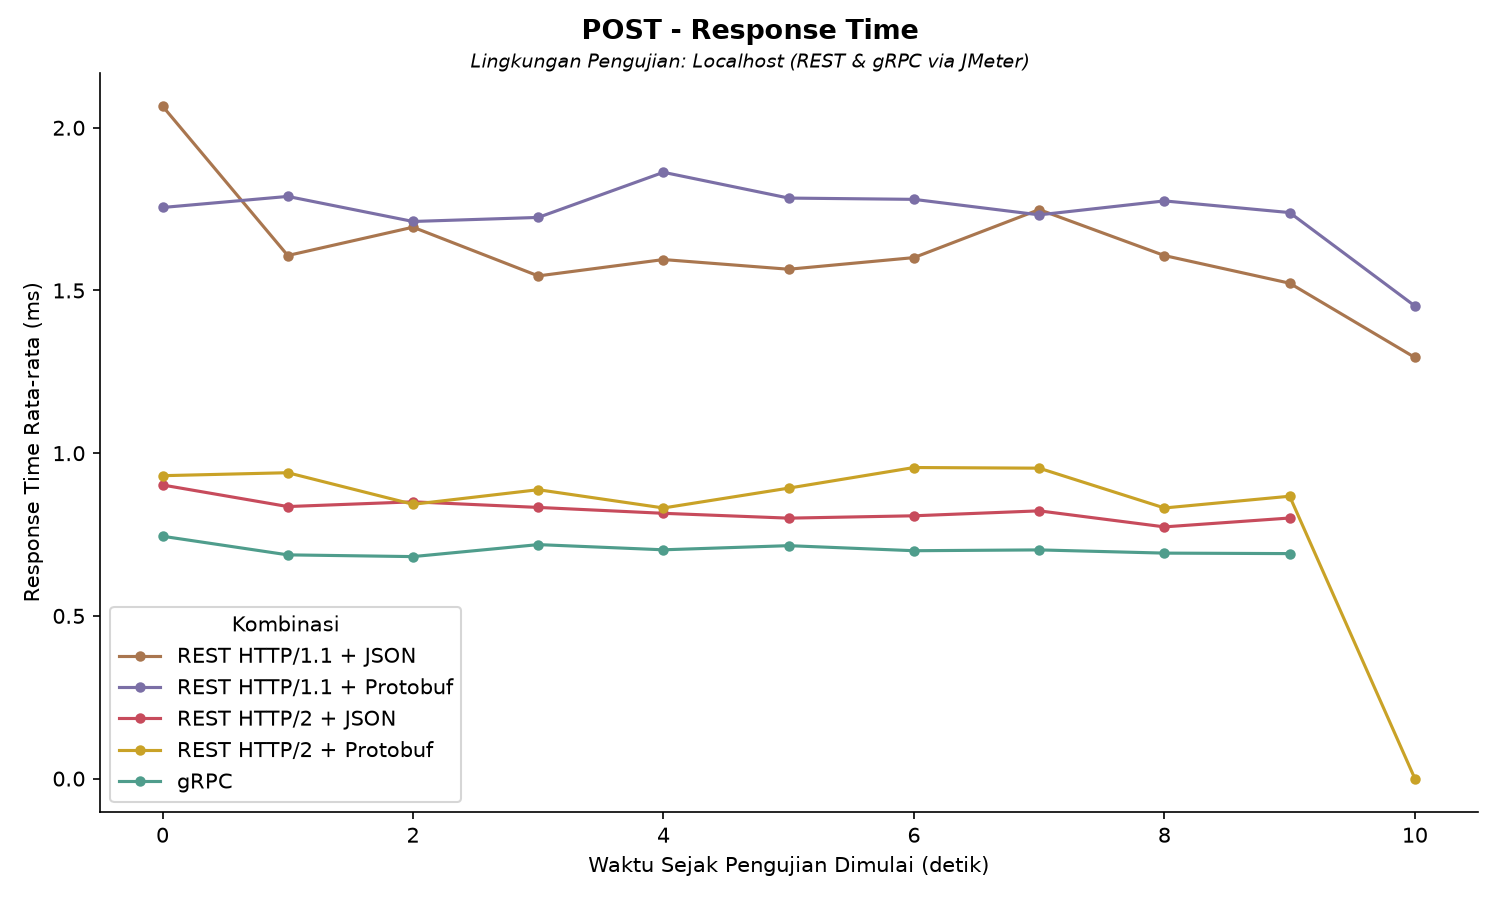
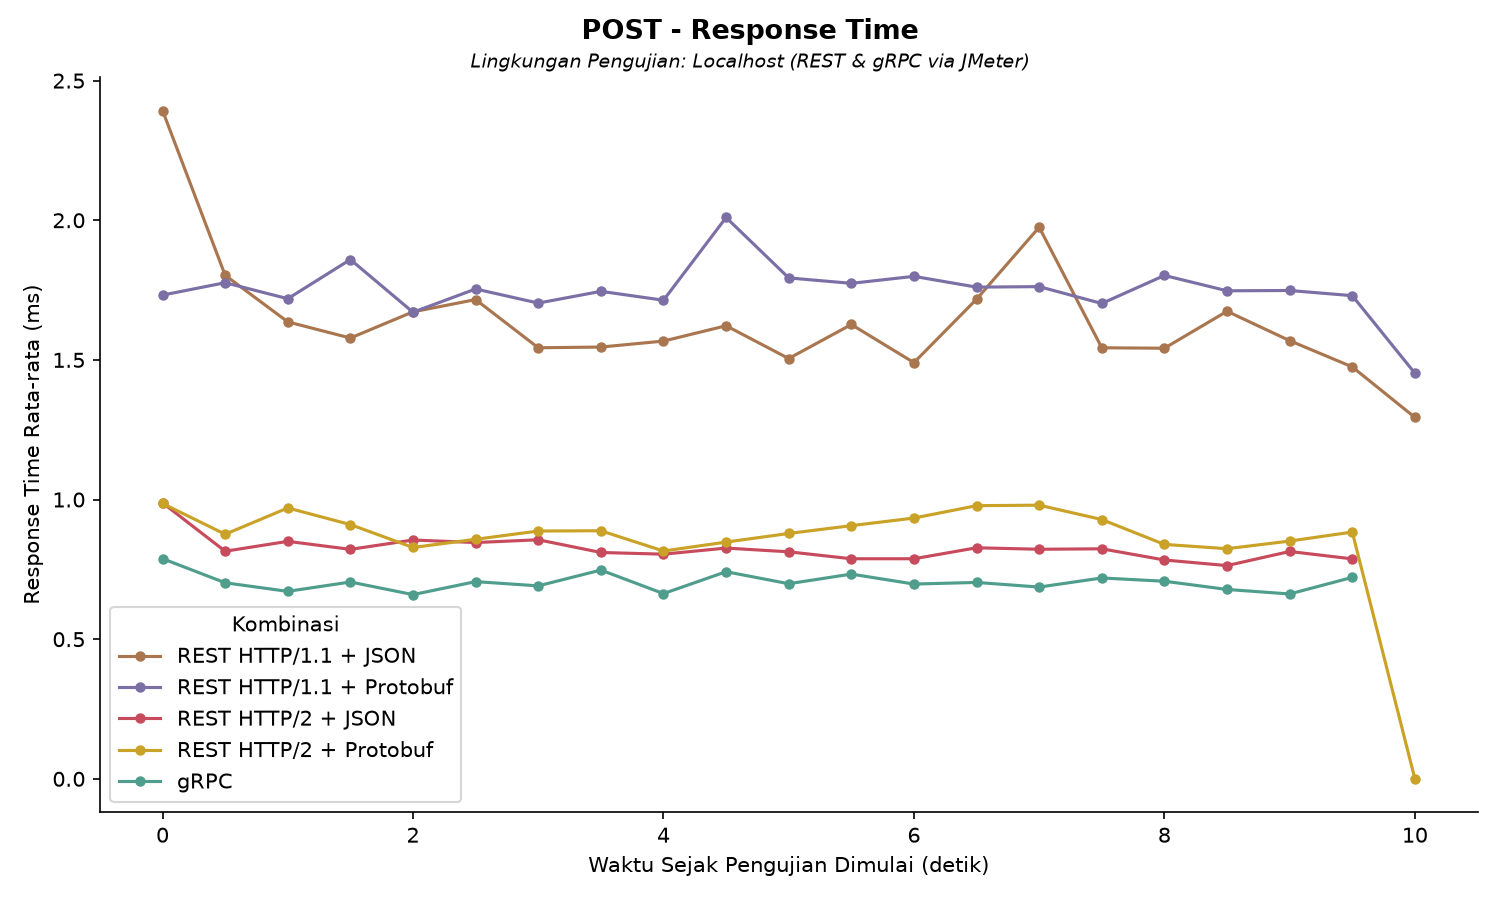
fix: align overlay bucket size and marker style across all 3 scripts
- Widen response-time-over-time bucketing from 1000ms to 500ms in
  localhost_visualize.py, vps_visualize.py, and
  vps_visualize-jmeter-ghz-combined.py, fixing overlay lines that
  collapsed into a single invisible point for very fast combinations
  (all requests finishing under 1 second)
- Revert vps_visualize-jmeter-ghz-combined.py's overlay markers back
  to plain marker="o", markersize=4, matching the other two scripts
  (previous per-combination marker shapes were rejected for breaking
  visual consistency across scenarios)

diff --git a/testing/vps-rest-jmeter-grpc-ghz/analysis/vps_visualize-jmeter-ghz-combined.py b/testing/vps-rest-jmeter-grpc-ghz/analysis/vps_visualize-jmeter-ghz-combined.py
@@ -166,7 +166,7 @@ def load_ghz_details(path: Path) -> pd.DataFrame:
 def compute_ghz_summary(df: pd.DataFrame) -> dict:
     """Compute mean/p99/min/max/throughput/error_rate for a single ghz report's DataFrame."""
     elapsed = df["elapsed"]
-    duration_s = max(df["timeStamp"].max() - df["timeStamp"].min(), 1) / 1000
+    duration_s = max((df["timeStamp"] + elapsed.clip(lower=0)).max() - df["timeStamp"].min(), 1) / 1000
     return {
         "mean": elapsed.mean(), "p99": elapsed.quantile(0.99),
         "min": elapsed.min(), "max": elapsed.max(),
@@ -242,13 +242,15 @@ def plot_combined_response_time_overlay(rest_df: pd.DataFrame, ghz_dfs: dict, si
         if subset.empty:
             continue
         start = subset["timeStamp"].min()
-        subset["bucket_s"] = (subset["timeStamp"] - start) // 1000
+        # subset["bucket_s"] = (subset["timeStamp"] - start) // 1000
+        subset["bucket_s"] = (subset["timeStamp"] - start) // 500 / 2
         bucketed = subset.groupby("bucket_s")["elapsed"].mean()
         ax.plot(bucketed.index, bucketed.values, label=combo, color=COMBO_COLORS[combo], linewidth=1.5, marker="o", markersize=4)
 
     ghz_df = ghz_dfs[size].copy()
     start = ghz_df["timeStamp"].min()
-    ghz_df["bucket_s"] = (ghz_df["timeStamp"] - start) // 1000
+    # ghz_df["bucket_s"] = (ghz_df["timeStamp"] - start) // 1000
+    ghz_df["bucket_s"] = (ghz_df["timeStamp"] - start) // 500 / 2
     bucketed = ghz_df.groupby("bucket_s")["elapsed"].mean()
     ax.plot(bucketed.index, bucketed.values, label="gRPC", color=COMBO_COLORS["gRPC"], linewidth=1.5, marker="o", markersize=4)
 
@@ -324,13 +326,15 @@ def plot_combined_post_response_time_overlay(rest_df: pd.DataFrame, ghz_post_df:
         if subset.empty:
             continue
         start = subset["timeStamp"].min()
-        subset["bucket_s"] = (subset["timeStamp"] - start) // 1000
+        # subset["bucket_s"] = (subset["timeStamp"] - start) // 1000
+        subset["bucket_s"] = (subset["timeStamp"] - start) // 500 / 2
         bucketed = subset.groupby("bucket_s")["elapsed"].mean()
         ax.plot(bucketed.index, bucketed.values, label=combo, color=COMBO_COLORS[combo], linewidth=1.5, marker="o", markersize=4)
 
     ghz_post_df = ghz_post_df.copy()
     start = ghz_post_df["timeStamp"].min()
-    ghz_post_df["bucket_s"] = (ghz_post_df["timeStamp"] - start) // 1000
+    # ghz_post_df["bucket_s"] = (ghz_post_df["timeStamp"] - start) // 1000
+    ghz_post_df["bucket_s"] = (ghz_post_df["timeStamp"] - start) // 500 / 2
     bucketed = ghz_post_df.groupby("bucket_s")["elapsed"].mean()
     ax.plot(bucketed.index, bucketed.values, label="gRPC", color=COMBO_COLORS["gRPC"], linewidth=1.5, marker="o", markersize=4)
 

diff --git a/testing/localhost-rest-jmeter-grpc-jmeter/analysis/localhost_visualize.py b/testing/localhost-rest-jmeter-grpc-jmeter/analysis/localhost_visualize.py
@@ -237,7 +237,7 @@ def plot_response_time_overlay(df: pd.DataFrame, size: str):
             continue
 
         start = subset["timeStamp"].min()
-        subset["bucket_s"] = (subset["timeStamp"] - start) // 1000
+        subset["bucket_s"] = (subset["timeStamp"] - start) // 500 / 2
         bucketed = subset.groupby("bucket_s")["elapsed"].mean()
 
         ax.plot(bucketed.index, bucketed.values, label=combo, color=COMBO_COLORS[combo],
@@ -344,7 +344,7 @@ def plot_post_response_time_overlay(df: pd.DataFrame):
             continue
 
         start = subset["timeStamp"].min()
-        subset["bucket_s"] = (subset["timeStamp"] - start) // 1000
+        subset["bucket_s"] = (subset["timeStamp"] - start) // 500 / 2
         bucketed = subset.groupby("bucket_s")["elapsed"].mean()
 
         ax.plot(bucketed.index, bucketed.values, label=combo, color=COMBO_COLORS[combo],

diff --git a/testing/vps-rest-jmeter-grpc-jmeter/analysis/vps_visualize.py b/testing/vps-rest-jmeter-grpc-jmeter/analysis/vps_visualize.py
@@ -234,7 +234,7 @@ def plot_response_time_overlay(df: pd.DataFrame, size: str):
             continue
 
         start = subset["timeStamp"].min()
-        subset["bucket_s"] = (subset["timeStamp"] - start) // 1000
+        subset["bucket_s"] = (subset["timeStamp"] - start) // 500 / 2
         bucketed = subset.groupby("bucket_s")["elapsed"].mean()
 
         ax.plot(bucketed.index, bucketed.values, label=combo, color=COMBO_COLORS[combo],
@@ -345,7 +345,7 @@ def plot_post_response_time_overlay(df: pd.DataFrame):
             continue
 
         start = subset["timeStamp"].min()
-        subset["bucket_s"] = (subset["timeStamp"] - start) // 1000
+        subset["bucket_s"] = (subset["timeStamp"] - start) // 500 / 2
         bucketed = subset.groupby("bucket_s")["elapsed"].mean()
 
         ax.plot(bucketed.index, bucketed.values, label=combo, color=COMBO_COLORS[combo],
